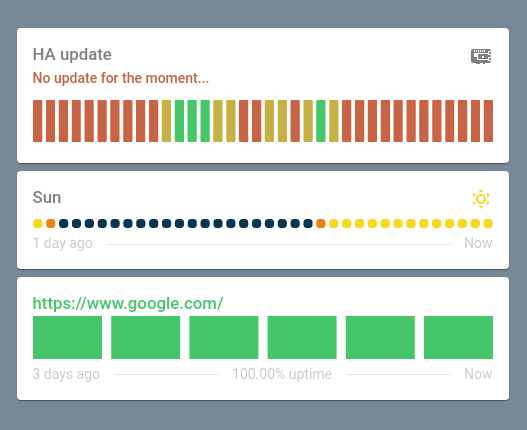
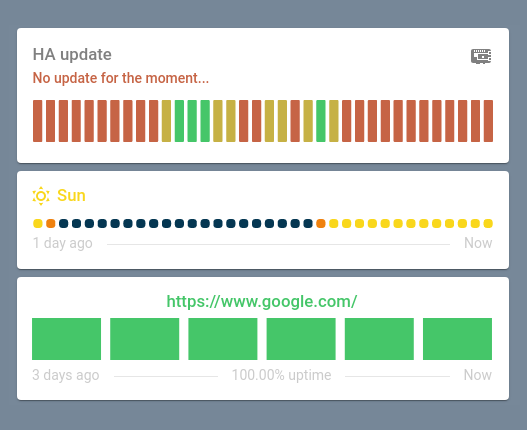
Refactor readme, examples and fix bar offset (#43)

diff --git a/src/uptime-card.ts b/src/uptime-card.ts
@@ -554,7 +554,7 @@ export class UptimeCard extends LitElement {
 
             const shouldNotBeSelected = this.tooltip?.index != idx || shouldNotBeAnimated;
             const height = shouldNotBeSelected ? bar.height : bar.height + offset;
-            const y = shouldNotBeSelected ? offset : 0;
+            const y = shouldNotBeAnimated ? 0 : shouldNotBeSelected ? offset : 0;
 
             return this.renderBar(
                 idx * (barWidth + bar.spacing) + leftTotalWidth / 2,

diff --git a/README.md b/README.md
@@ -38,8 +38,8 @@ Uptime card is highly customizable.
 
 ### Global config
 
-| Name | Type | Default | Since | Description |
-|------|:----:|:-------:|:-----:|-------------|
+| Name | Type / Options | Default | Since | Description |
+|------|:--------------:|:-------:|:-----:|-------------|
 | entity (**required**) | string |  | v0.0.1 | Specify entity ID of the sensor
 | ok | string |  | v0.0.1 | Specify the `on` state for the entity, either `ok` or `ko` should be set if entity isn't a binary sensor. **[More info](https://github.com/dylandoamaral/uptime-card#ok-and-ko-options)**.
 | ko | string |  | v0.0.1 | Specify the `off` state for the entity, either `ok` or `ko` should be set if entity isn't a binary sensor. **[More info](https://github.com/dylandoamaral/uptime-card#ok-and-ko-options)**.
@@ -51,17 +51,17 @@ Uptime card is highly customizable.
 | average_text | string | `%`| v0.0.2 | Set the average text to be displayed at the bottom.
 | severity | number | `100` | v0.0.1 | Set a threshold in percentage to specify when a bar both ok and ko is red instead of yellow.
 | status_template | string | `[[ current ]]` | v0.1.0 | Set the template for the status. **[More info](https://github.com/dylandoamaral/uptime-card#templating)**.
-| title_adaptive_color | boolean | `false` | v0.0.2 | Make the title color adapt with the entity color.
-| status_adaptive_color | boolean | `false` | v0.0.2 | Make the name color adapt with the entity color.
-| icon_adaptive_color | boolean | `false` | v0.0.2 | Make the name color adapt with the entity color.
-| tooltip_adaptive_color | boolean | `false` | v0.1.0 | Make the name color adapt with the entity color.
+| title_adaptive_color | `true`/`false` | `false` | v0.0.2 | Make the title color adapt with the entity color.
+| status_adaptive_color | `true`/`false` | `false` | v0.0.2 | Make the name color adapt with the entity color.
+| icon_adaptive_color | `true`/`false` | `false` | v0.0.2 | Make the name color adapt with the entity color.
+| tooltip_adaptive_color | `true`/`false` | `false` | v0.1.0 | Make the name color adapt with the entity color.
 
 ### Bar config
 
 **Parent key:** `bar`
 
-| Name | Type | Default | Since | Description |
-|------|:----:|:-------:|:-----:|-------------|
+| Name | Type / Options | Default | Since | Description |
+|------|:--------------:|:-------:|:-----:|-------------|
 | height | number | `46` | v0.0.1 | Set the height of the bars.
 | round | number | `1` | v0.0.1 | Set the round radius for the bars.
 | spacing | number | `4` | v0.0.1 | Set the spacing between the bars.
@@ -71,8 +71,8 @@ Uptime card is highly customizable.
 
 **Parent key:** `color`
 
-| Name | Type | Default | Since | Description |
-|------|:----:|:-------:|:-----:|-------------|
+| Name | Type / Options | Default | Since | Description |
+|------|:--------------:|:-------:|:-----:|-------------|
 | ok | color | ![ ](https://dummyimage.com/20x10/45c669&amp;text=+) `#45C669` | v0.0.1 | Set the `ok` color.
 | ko | color | ![ ](https://dummyimage.com/20x10/c66445&amp;text=+) `#C66445` | v0.0.1 | Set the `ko` color.
 | half | color | ![ ](https://dummyimage.com/20x10/c6b145&amp;text=+) `#C6B145` | v0.0.1 | Set the `half` color.
@@ -86,22 +86,22 @@ Uptime card is highly customizable.
 
 **Parent key:** `show`
 
-| Name | Default | Options | Since | Description |
-|------:|:------:|:-----:|:------:|:-------------|
-| header | `true` | `true`/`false` | v0.0.1 | Show/hide the header.
-| title | `true` | `true`/`false` | v0.1.0 | Show/hide the title.
-| icon | `true` | `true`/`false` | v0.0.1 | Show/hide the icon.
-| status | `true` | `true`/`false` | v0.0.1 | Show/hide the status.
-| timeline | `true` | `true`/`false` | v0.0.1 | Show/hide the timeline.
-| average | `true` | `true`/`false` | v0.0.2 | Show/hide the average.
-| footer | `true` | `true`/`false` | v0.0.1 | Show/hide the footer.
+| Name | Type / Options | Default | Since | Description |
+|------|:--------------:|:-------:|:-----:|-------------|
+| header | `true`/`false` | `true` | v0.0.1 | Show/hide the header.
+| title | `true`/`false` | `true` | v0.1.0 | Show/hide the title.
+| icon | `true`/`false` | `true` | v0.0.1 | Show/hide the icon.
+| status | `true`/`false` | `true` | v0.0.1 | Show/hide the status.
+| timeline | `true`/`false` | `true` | v0.0.1 | Show/hide the timeline.
+| average | `true`/`false` | `true` | v0.0.2 | Show/hide the average.
+| footer | `true`/`false` | `true` | v0.0.1 | Show/hide the footer.
 
 ### Alias config
 
 **Parent key:** `alias`
 
-| Name | Type | Default | Since | Description |
-|------|:----:|:-------:|:-----:|-------------|
+| Name | Type / Options | Default | Since | Description |
+|------|:--------------:|:-------:|:-----:|-------------|
 | ok | string | | v0.0.1 | Set a friendly name for `ok` state.
 | ko | string | | v0.0.1 | Set a friendly name for `ko` state.
 
@@ -109,11 +109,11 @@ Uptime card is highly customizable.
 
 **Parent key:** `tooltip`
 
-| Name | Type | Default | Since | Description |
-|------|:----:|:-------:|:-----:|-------------|
-| hour24 | boolean | `false` | v0.1.0 | Set to `true` to display time in 24-hour format.
+| Name | Type / Options | Default | Since | Description |
+|------|:--------------:|:-------:|:-----:|-------------|
+| hour24 | `true`/`false` | `false` | v0.1.0 | Set to `true` to display time in 24-hour format.
 | template | string | `[[ from_date ]] - [[ to_date ]] \| [[ average ]]%` | v0.1.0 | Set a template for the tooltip **[More info](https://github.com/dylandoamaral/uptime-card#templating)**.
-| animation | boolean | `true` | v0.1.0 | Set to `true` to show bar animation on hover.
+| animation | `true`/`false` | `true` | v0.1.0 | Set to `true` to show bar animation on hover.
 
 ### Action config
 
@@ -148,15 +148,15 @@ type: 'custom:uptime-card'
 entity: binary_sensor.updater
 icon: 'mdi:raspberry-pi'
 name: HA update
+hours_to_show: 168
+status_adaptive_color: true
 alias:
   ok: Update available !
   ko: No update for the moment...
 color:
   icon: grey
-hours_to_show: 168
 show:
   footer: false
-status_adaptive_color: true
 ```
 
 ### Example 2
@@ -167,22 +167,30 @@ status_adaptive_color: true
 
 ```yaml
 type: 'custom:uptime-card'
-bar:
-  spacing: 4
-  height: 10
-  round: 4
-icon: 'mdi:weather-sunny'
 entity: sun.sun
 name: Sun
+icon: 'mdi:weather-sunny'
+ko_icon: 'mdi:weather-sunny-off'
 ko: below_horizon
+icon_adaptive_color: true
+title_adaptive_color: true
 color:
   ok: '#F9d71C'
   ko: '#053752'
   half: '#EF810E'
-icon_adaptive_color: true
+bar:
+  spacing: 4
+  height: 10
+  round: 4
 show:
   average: false
   status: false
+alignment:
+  status: spaced
+  header: left
+  icon_first: true
+tap_action:
+  action: more-info
 ```
 
 ### Example 3
@@ -193,9 +201,13 @@ show:
 
 ```yaml
 type: 'custom:uptime-card'
-entity: binary_sensor.ping_google 
+entity: binary_sensor.ping_google
 # Home Assistant ping integration - https://www.home-assistant.io/integrations/ping
+name: 'https://www.google.com/'
 icon: 'mdi:heart'
+hours_to_show: 72
+title_adaptive_color: true
+average_text: '% uptime'
 bar:
   height: 46
   round: 0
@@ -204,10 +216,12 @@ bar:
 show:
   status: false
   icon: false
-title_adaptive_color: true
-hours_to_show: 72
-name: 'https://www.google.com/'
-average_text: '% uptime'
+tap_action:
+  action: url
+  url: 'https://www.google.com/'
+alignment:
+  status: spaced
+  header: center
 ```
 
 ## Roadmap 🗺
